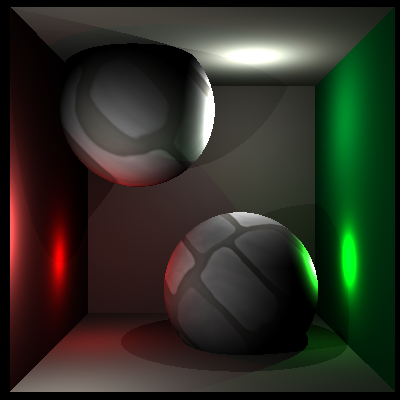
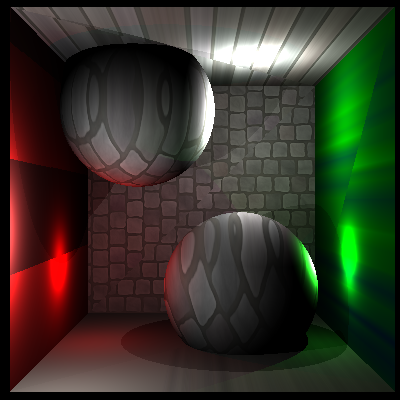
Update: triangle mapping

diff --git a/rt/coordmappers/tmapper.cpp b/rt/coordmappers/tmapper.cpp
@@ -4,15 +4,12 @@
 namespace rt
 {
     TriangleMapper::TriangleMapper(const Point& tv0, const Point& tv1, const Point& tv2)
-    {
-        
-    }
+    : tv0(tv0), tv1(tv1), tv2(tv2){}
     TriangleMapper::TriangleMapper(Point ntv[3])
-    {
-
-    }
+    : tv0(ntv[0]), tv1(ntv[1]), tv2(ntv[2]){}
     Point TriangleMapper::getCoords(const Intersection& hit) const
     {
-        return Point();
+        Point hitPoint = hit.local();
+        return Point (tv0 * (1 - (hitPoint.x + hitPoint.y)) + tv1 * hitPoint.x + tv2 * hitPoint.y);
     }
 }

diff --git a/rt/coordmappers/tmapper.h b/rt/coordmappers/tmapper.h
@@ -12,7 +12,8 @@ public:
     TriangleMapper(const Point& tv0, const Point& tv1, const Point& tv2);
     TriangleMapper(Point ntv[3]);
     virtual Point getCoords(const Intersection& hit) const;
-
+private:
+    Point tv0, tv1, tv2;
 };
 
 }
